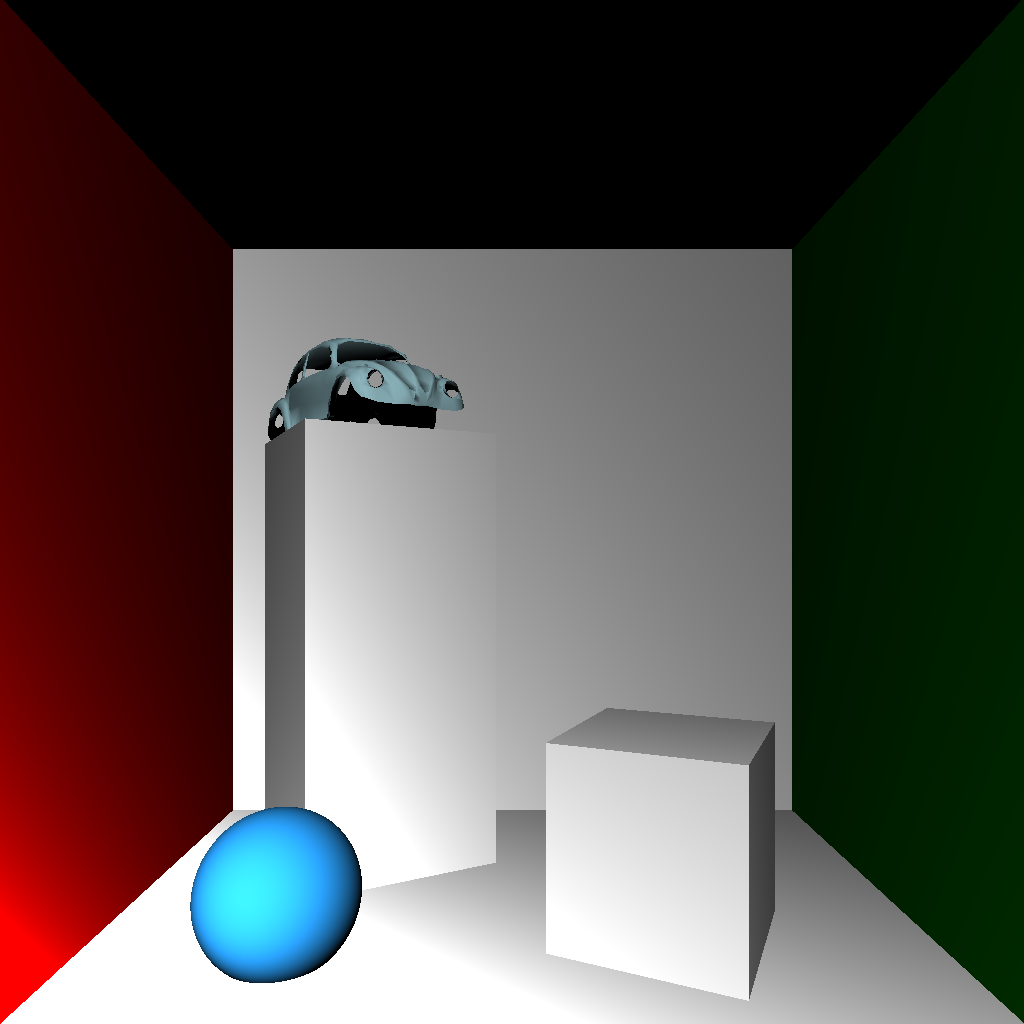
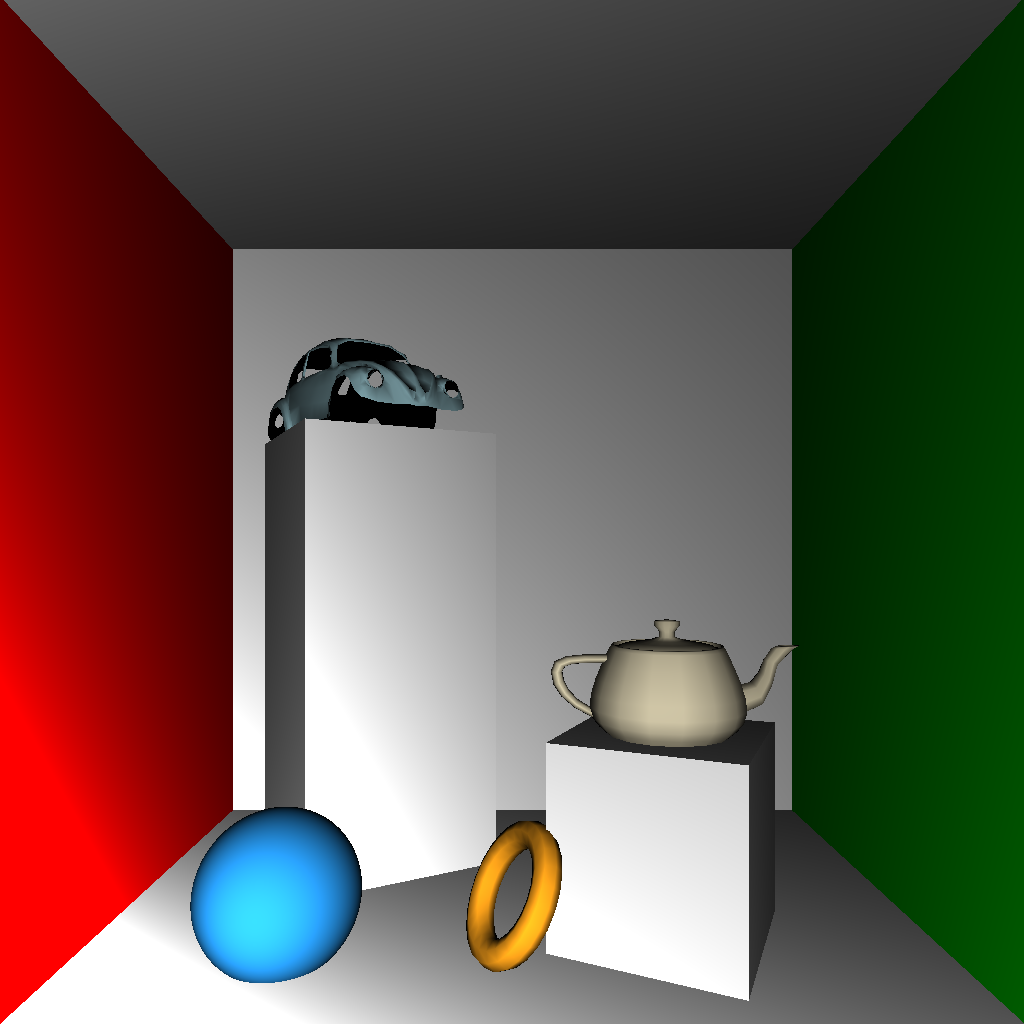
Multithread added

diff --git a/src/Main/Raytracer.java b/src/Main/Raytracer.java
@@ -19,6 +19,9 @@ import java.io.File;
 import java.io.IOException;
 import java.time.Instant;
 import java.util.ArrayList;
+import java.util.concurrent.ExecutorService;
+import java.util.concurrent.Executors;
+import java.util.concurrent.TimeUnit;
 
 /**
  *  Raytracer Class, this class guides the code, calling other important classes.
@@ -38,14 +41,14 @@ public class Raytracer {
 
         Scene scene01 = new Scene();
         scene01.setCamera(new Camera(new Vector3D(0, 0.5, -5.5), 135, 135, 1024, 1024, 0f, 100f));
-        scene01.addLight(new PointLight(new Vector3D(0f, 50f, -65f), Color.WHITE, 40));
-        //scene01.addLight(new PointLight(new Vector3D(0f, 10f, 0f), Color.WHITE, 5));
+        //scene01.addLight(new PointLight(new Vector3D(0f, 21.8f, 24f), Color.WHITE, 3));
+        scene01.addLight(new PointLight(new Vector3D(0f, 0f, -15f), Color.WHITE, 35));
         scene01.addObject(new Sphere(new Vector3D(-10f, -14f, 28f), 3.5f, new Color(28, 108, 169)));
         scene01.addObject(OBJReader.GetPolygon("ObjFiles/VWBug.obj", new Vector3D(-11,2, 40), new Color(169,217,227)));
         scene01.addObject(OBJReader.GetPolygon("ObjFiles/Stand.obj", new Vector3D(-8,-18,40), Color.white));
         scene01.addObject(OBJReader.GetPolygon("ObjFiles/Cube.obj", new Vector3D(7,-30,30), Color.white));
-        //scene01.addObject(OBJReader.GetPolygon("ObjFiles/Ring.obj", new Vector3D(0,-14,28), new Color(255, 164, 27)));
-        //scene01.addObject(OBJReader.GetPolygon("ObjFiles/SmallTeapot.obj", new Vector3D(7f, -8f, 30f), new Color(255, 243, 205)));
+        scene01.addObject(OBJReader.GetPolygon("ObjFiles/Ring.obj", new Vector3D(0,-14,28), new Color(255, 164, 27)));
+        scene01.addObject(OBJReader.GetPolygon("ObjFiles/SmallTeapot.obj", new Vector3D(7f, -8f, 30f), new Color(255, 243, 205)));
         scene01.addObject(OBJReader.GetPolygon("ObjFiles/Floor.obj", new Vector3D(0,-18.3,30), Color.white));
         scene01.addObject(OBJReader.GetPolygon("ObjFiles/Floor.obj", new Vector3D(0,21.8,30), Color.white));
         scene01.addObject(OBJReader.GetPolygon("ObjFiles/Wall.obj", new Vector3D(20,-10,20), Color.GREEN));
@@ -71,6 +74,9 @@ public class Raytracer {
      * @return BufferedImage the rendered scene with specified resolution from the camera
      */
     private static BufferedImage raytrace(Scene scene) {
+
+        ExecutorService executorService = Executors.newFixedThreadPool(8);
+
         Camera mainCamera = scene.getCamera();
         ArrayList<Light> lights = scene.getLights();
         float[] nearFarPlanes = mainCamera.getNearFarPlanes();
@@ -85,6 +91,33 @@ public class Raytracer {
                 double z = positionsToRaytrace[i][j].getZ() + mainCamera.getPosition().getZ();
 
                 Ray ray = new Ray(mainCamera.getPosition(), new Vector3D(x, y, z));
+                Runnable runnable = draw(i, j, mainCamera, ray, objects, nearFarPlanes, lights, image);
+                executorService.execute(runnable);
+            }
+        }
+
+        executorService.shutdown();
+        try{
+            if(!executorService.awaitTermination(10, TimeUnit.MINUTES)){
+                executorService.shutdownNow();
+            }
+        }catch (InterruptedException e){
+            executorService.shutdownNow();
+        } finally {
+            if(!executorService.isTerminated()){
+                System.out.println("Cancel non-finished");
+            }
+        }
+        executorService.isTerminated();
+
+        return image;
+    }
+
+    private static Runnable draw(int i, int j, Camera mainCamera, Ray ray, ArrayList<Object3D> objects, float[] nearFarPlanes, ArrayList<Light> lights, BufferedImage image){
+        Runnable aRunnable = new Runnable() {
+            @Override
+            public void run() {
+
                 float cameraZ = (float) mainCamera.getPosition().getZ();
                 Intersection closestIntersection = raycast(ray, objects, null, new float[]{cameraZ + nearFarPlanes[0], cameraZ + nearFarPlanes[1]});
 
@@ -106,11 +139,14 @@ public class Raytracer {
                         pixelColor = addColor(pixelColor, diffuse);
                     }
                 }
-                image.setRGB(i, j, pixelColor.getRGB());
+                setRGB(image, i, j, pixelColor);
             }
-        }
+        };
+        return aRunnable;
+    }
 
-        return image;
+    private static synchronized void setRGB(BufferedImage image, int i, int j, Color pixelColor){
+        image.setRGB(i, j, pixelColor.getRGB());
     }
 
     /**
